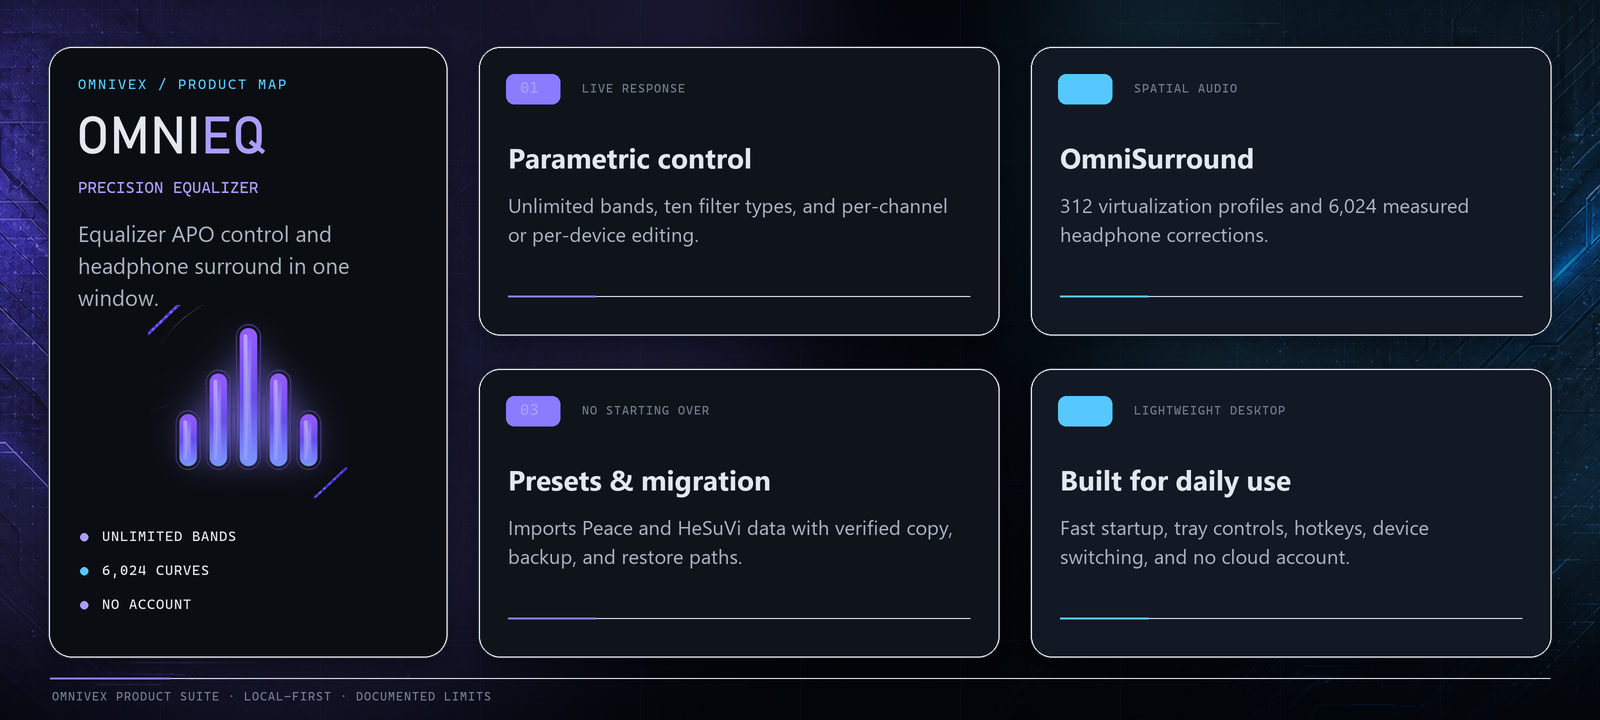
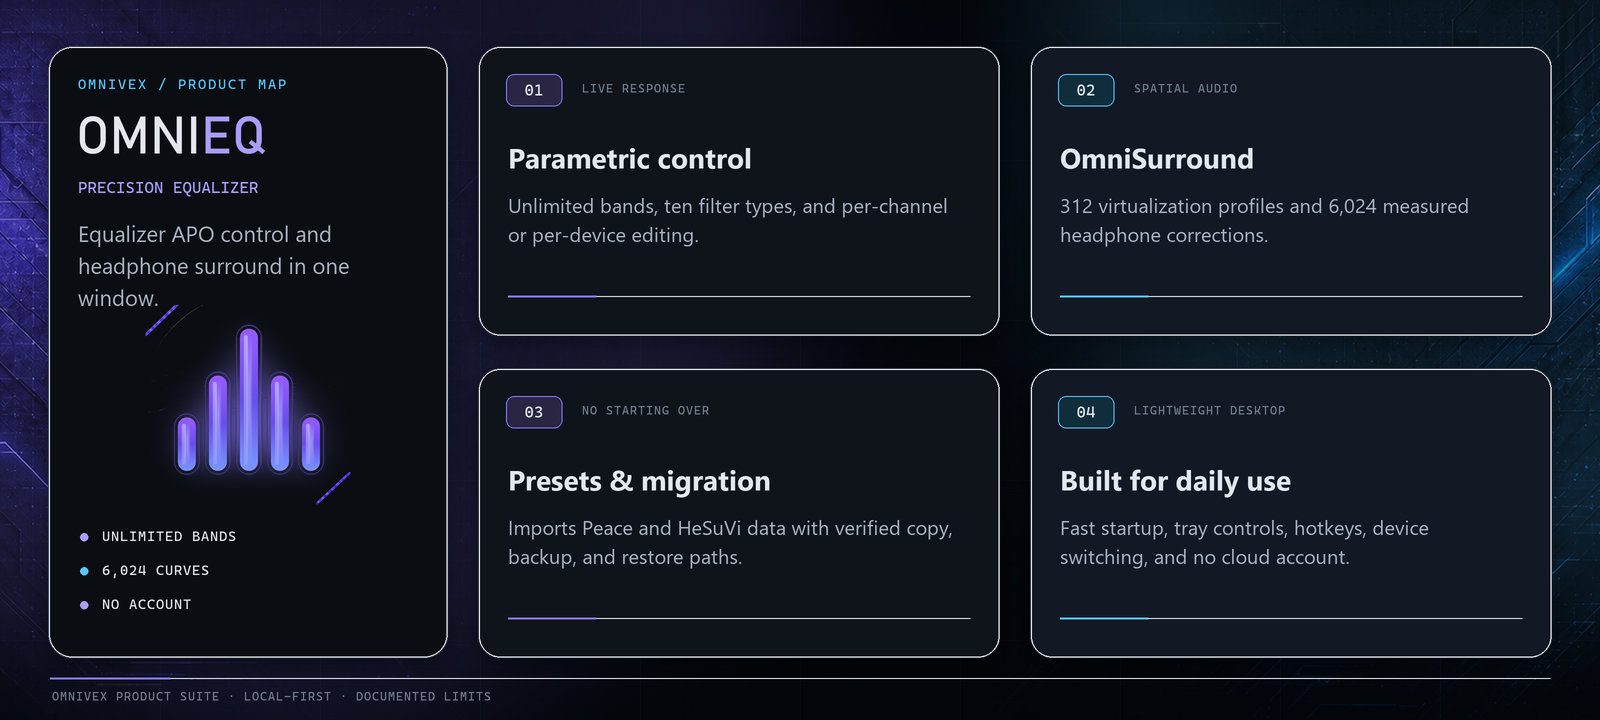
fix: show centered capability numbers (#11)

diff --git a/README.md b/README.md
@@ -59,7 +59,7 @@ OmniEQ is a native Windows desktop equalizer for **[Equalizer APO](https://sourc
 
 ## Feature overview
 
-![OmniEQ capability map covering parametric control, OmniSurround, presets and migration, and daily desktop use](assets/presentation/capabilities.png)
+![OmniEQ capability map covering parametric control, OmniSurround, presets and migration, and daily desktop use](assets/presentation/capabilities.png?v=20260823-visible-numbers-v3)
 
 <table>
 <tr>
